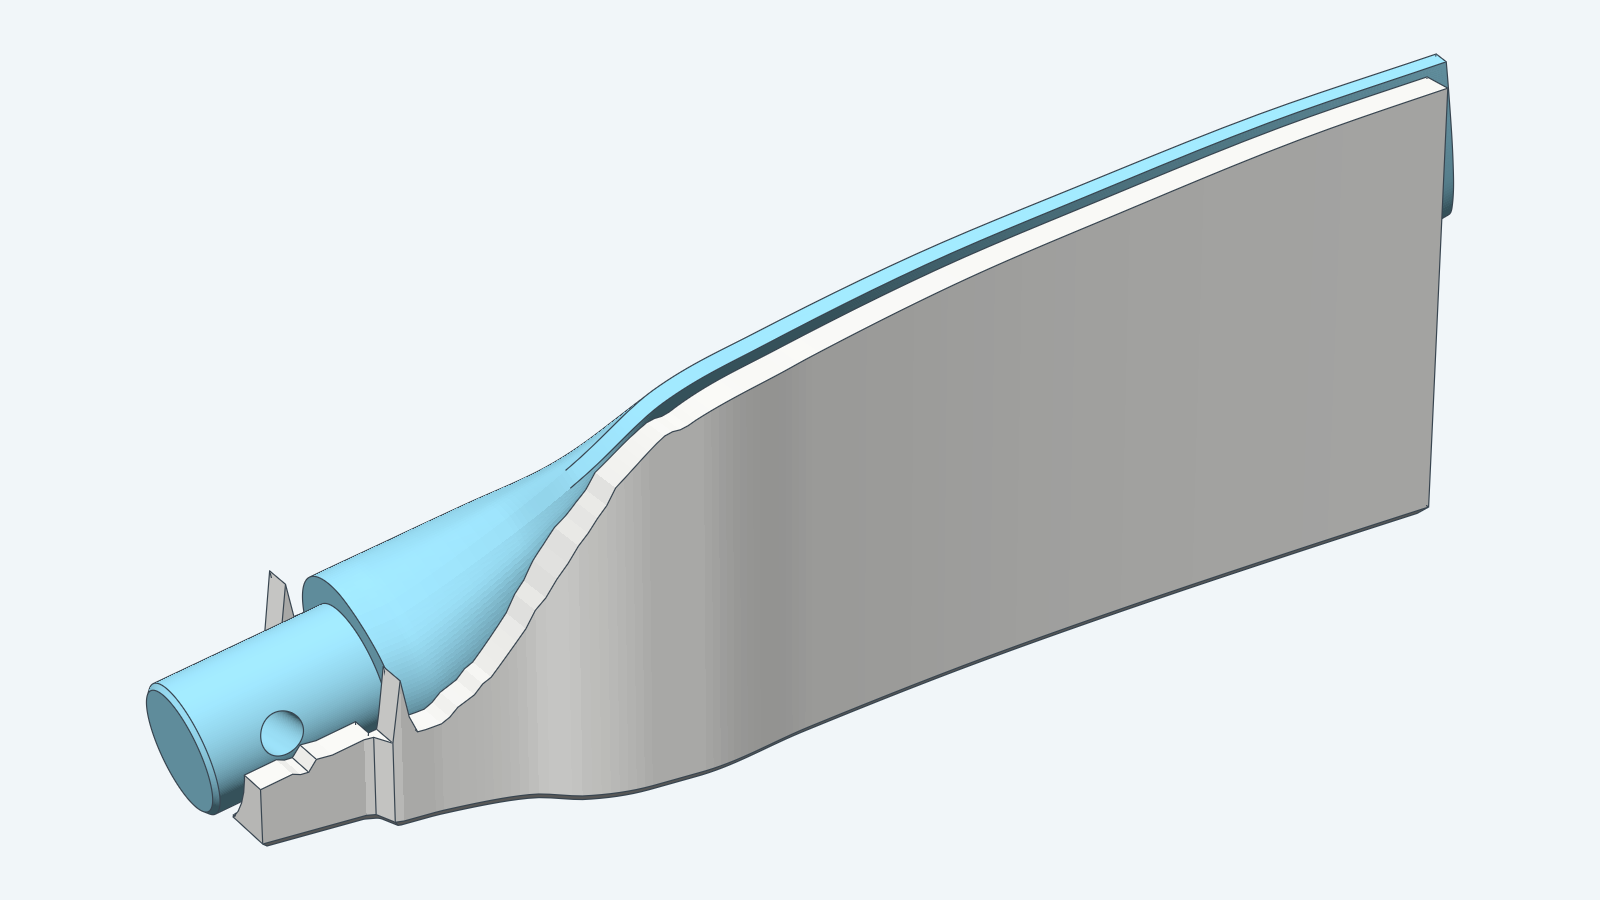
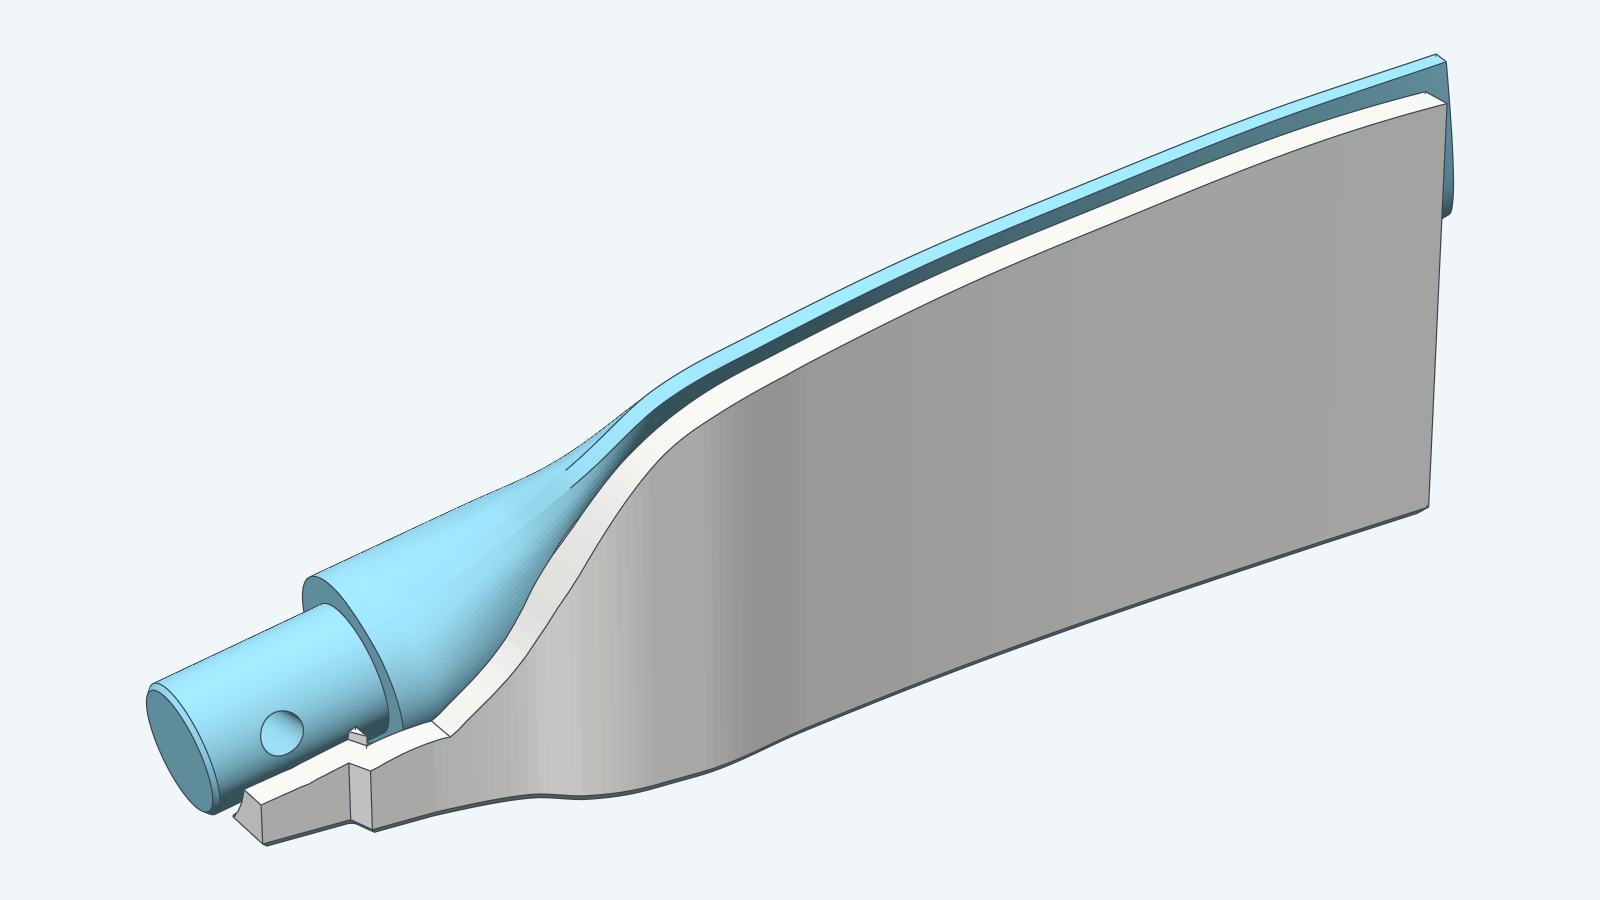
smooth turbine fan cradle walls and drop root fin

Changed region(s): [[0.1562, 0.0622, 0.9062, 0.9333], [0.1562, 0.6222, 0.1875, 0.7156]]

diff --git a/models/turbinefan/harness.go b/models/turbinefan/harness.go
@@ -5,6 +5,7 @@ import (
 	"errors"
 	"fmt"
 	"math"
+	"slices"
 
 	"github.com/lestrrat-3d/decad"
 	"github.com/lestrrat-3d/decad-gallery/internal/sketchcheck"
@@ -28,6 +29,13 @@ const (
 	CradleFitPoints = 33
 	// CradleYStep is the y spacing of the lower envelope's samples.
 	CradleYStep = 0.05
+	// CradleTopBand is how far inside a widest point the blade's outline is read for the wall's height: the wall top is
+	// set from the lowest outline point within this of the widest y, which a near-vertical face leaves steady.
+	CradleTopBand = 0.1
+	// CradleTopSmooth is the half-width, in mm along x, of the moving average that smooths each wall's top.
+	CradleTopSmooth = 1.0
+	// CradleTopPasses is the number of smoothing passes; each averages, then lowers every point back under its limit.
+	CradleTopPasses = 8
 	// CradleTipMargin is how far before the tip cap's lowest point the cradle ends.
 	CradleTipMargin = 1.0
 	// StudSlotFlats is the number of flats of the stud slot's half polygon.
@@ -46,6 +54,9 @@ type CradleSection struct {
 	Outline        [][2]float64 // CradleFitPoints points, y strictly increasing
 	LeftY, LeftZ   float64      // offset widest point, min y side
 	RightY, RightZ float64      // offset widest point, max y side
+	// LeftLimit and RightLimit are the lowest blade outline points within CradleTopBand of each widest y: the highest a
+	// wall may stand there.
+	LeftLimit, RightLimit float64
 }
 
 // BladeHarness is the cradle in the print frame. The cradle is one solid standing on the bed: a block minus the blade's
@@ -63,6 +74,9 @@ type BladeHarness struct {
 	XStart, XEnd float64
 	// StepZone is the x range where the shadow tool copies its first clean section, past the root step.
 	StepZone [2]float64
+	// WallTop is the top profile (x, z) of the left (min y) and the right wall over the block's sections: CradleTopDrop
+	// under the smoothed limit, the step zone's sections taking the first clean section's values.
+	WallTop [2][][2]float64
 }
 
 // BuildBladeHarness builds the cradle for blade, which must already be in the print pose PrintPoseFor(sz, pitch, hand,
@@ -219,7 +233,7 @@ func (b *bladeBuilder) harness(blade *decad.Body, pose r3.Frame, hand Hand, tilt
 
 	shadow := b.shadowTool(h, z0, zTop)
 	stud := b.studTool(xf, zTop, tilt)
-	block := b.block(h.Sections[1:len(h.Sections)-1], zTop)
+	block := b.block(h, wallSections(h), zTop)
 	// 9: the cradle.
 	if b.err != nil {
 		return nil
@@ -302,8 +316,25 @@ func (b *bladeBuilder) cradleSections(secs bladeSections, xs, xe, z0 float64) []
 		}
 		mono = append(mono, off[last])
 		pts := polarResample(mono, z0)
+		// Each wall's limit is the lowest point of the window's outlines within CradleTopBand of that side's widest y,
+		// read along every outline segment, so a near-vertical face gives a steady height on both sides alike.
+		leftLimit, rightLimit := math.Inf(1), math.Inf(1)
+		for _, l := range win {
+			for i := range l {
+				p0, p1 := l[i], l[(i+1)%len(l)]
+				for k := 0; k <= 10; k++ {
+					p := p0.Add(p1.Sub(p0).Scale(float64(k) / 10))
+					if p.Y <= left.Y+CradleTopBand {
+						leftLimit = math.Min(leftLimit, p.Z)
+					}
+					if p.Y >= right.Y-CradleTopBand {
+						rightLimit = math.Min(rightLimit, p.Z)
+					}
+				}
+			}
+		}
 		out = append(out, CradleSection{X: x, Outline: pts, LeftY: pts[0][0], LeftZ: pts[0][1],
-			RightY: pts[len(pts)-1][0], RightZ: pts[len(pts)-1][1]})
+			RightY: pts[len(pts)-1][0], RightZ: pts[len(pts)-1][1], LeftLimit: leftLimit, RightLimit: rightLimit})
 	}
 	return out
 }
@@ -466,13 +497,70 @@ func (b *bladeBuilder) studTool(xf r3.Transform, zTop, t float64) *decad.Body {
 	return b.extrudePolygon(f, vertices, sz.RootRadius+0.5-sz.BladeStudStart+1, "stud slot")
 }
 
+// wallSections returns the block's sections (all but the first and last) for the walls: those in the shadow tool's
+// copied range, the step zone and its lead-in, take the first clean section's widest points and limits, as the shadow
+// tool takes its outline. A raw section there mixes the stud's and the root's slices and would raise a fin on each
+// wall.
+func wallSections(h *BladeHarness) []CradleSection {
+	blk := slices.Clone(h.Sections[1 : len(h.Sections)-1])
+	var clean *CradleSection
+	for i := range h.Sections {
+		if h.Sections[i].X >= h.StepZone[1] {
+			clean = &h.Sections[i]
+			break
+		}
+	}
+	if clean == nil {
+		return blk
+	}
+	for i, c := range blk {
+		if c.X >= h.StepZone[0]-1.0-1e-9 && c.X < h.StepZone[1] {
+			blk[i] = *clean
+			blk[i].X = c.X
+		}
+	}
+	return blk
+}
+
+// wallTop returns a wall's top profile over blk (step 8): the limits limit(c), smoothed under themselves, less
+// CradleTopDrop. Each of CradleTopPasses passes averages the profile over CradleTopSmooth and then lowers every point
+// that rose above its own limit back to it, so the top stays CradleTopDrop under each section's limit and between
+// sections under the straight line between their limits.
+func wallTop(blk []CradleSection, limit func(CradleSection) float64) [][2]float64 {
+	lim := make([]float64, len(blk))
+	for i, c := range blk {
+		lim[i] = limit(c)
+	}
+	z := slices.Clone(lim)
+	for range CradleTopPasses {
+		next := make([]float64, len(z))
+		for i := range blk {
+			sum, n := 0.0, 0
+			for j := range blk {
+				if math.Abs(blk[i].X-blk[j].X) <= CradleTopSmooth+1e-9 {
+					sum, n = sum+z[j], n+1
+				}
+			}
+			next[i] = math.Min(sum/float64(n), lim[i])
+		}
+		z = next
+	}
+	out := make([][2]float64, len(blk))
+	for i, c := range blk {
+		out[i] = [2]float64{c.X, z[i] - CradleTopDrop}
+	}
+	return out
+}
+
 // block builds the cradle's block (step 8): the plan from CradleWall outside each widest line, intersected with a slab
 // 0.5 over the higher wall top, then cut by a cap on each side that removes what lies beyond that side's widest line and
 // above its wall top.
-func (b *bladeBuilder) block(blk []CradleSection, zTop float64) *decad.Body {
+func (b *bladeBuilder) block(h *BladeHarness, blk []CradleSection, zTop float64) *decad.Body {
 	if b.err != nil {
 		return nil
 	}
+	h.WallTop[0] = wallTop(blk, func(c CradleSection) float64 { return c.LeftLimit })
+	h.WallTop[1] = wallTop(blk, func(c CradleSection) float64 { return c.RightLimit })
 	// The plan's outer edge takes the widest point within CradlePlanWindow, so the bed face's outline has no notch
 	// narrower than its chamfer.
 	outer := func(x, side float64) float64 {
@@ -489,14 +577,13 @@ func (b *bladeBuilder) block(blk []CradleSection, zTop float64) *decad.Body {
 		}
 		return side * v
 	}
-	var plan, bandL, bandR, topMax, capL, capR [][2]float64
-	for _, c := range blk {
+	var plan, bandL, bandR, topMax [][2]float64
+	capL, capR := slices.Clone(h.WallTop[0]), slices.Clone(h.WallTop[1])
+	for i, c := range blk {
 		plan = append(plan, [2]float64{c.X, outer(c.X, -1) - CradleWall})
 		bandL = append(bandL, [2]float64{c.X, outer(c.X, -1) - CradleWall - 1})
 		bandR = append(bandR, [2]float64{c.X, c.RightY - 0.3})
-		topMax = append(topMax, [2]float64{c.X, math.Max(c.LeftZ, c.RightZ) - CradleTopDrop + 0.5})
-		capL = append(capL, [2]float64{c.X, c.LeftZ - CradleTopDrop})
-		capR = append(capR, [2]float64{c.X, c.RightZ - CradleTopDrop})
+		topMax = append(topMax, [2]float64{c.X, math.Max(capL[i][1], capR[i][1]) + 0.5})
 	}
 	for i := len(blk) - 1; i >= 0; i-- {
 		plan = append(plan, [2]float64{blk[i].X, outer(blk[i].X, 1) + CradleWall})

diff --git a/models/turbinefan/harness_fit_test.go b/models/turbinefan/harness_fit_test.go
@@ -1,0 +1,152 @@
+package turbinefan_test
+
+// CI: isolated-tests
+
+import (
+	"math"
+	"testing"
+
+	"github.com/lestrrat-3d/decad"
+	"github.com/lestrrat-3d/decad-gallery/internal/m2fastener"
+	"github.com/lestrrat-3d/decad-gallery/internal/meshgap"
+	"github.com/lestrrat-3d/decad-gallery/models/turbinefan"
+	"github.com/lestrrat-3d/r3"
+	"github.com/lestrrat-3d/units"
+	"github.com/stretchr/testify/require"
+)
+
+// TestBladeHarnessWallTop checks each wall's top: it stays CradleTopDrop under the widest line, it raises no fin in the
+// step zone above the root's clean wall, and it does not zigzag: no two neighbouring second differences of more than
+// 0.1 mm have opposite signs. The wall top follows the blade's own widest line, which turns sharply where the bolt hole
+// crosses the stud's sides and where the root flares into the airfoil, so points where that line's own second
+// difference exceeds 0.3 mm, the step zone's reach and the two sections at each end are not read for zigzags.
+func TestBladeHarnessWallTop(t *testing.T) {
+	eachCradle(t, func(t *testing.T, c cradleCase, b *builtCradle) {
+		h := b.harness
+		var clean turbinefan.CradleSection
+		for _, s := range h.Sections {
+			if s.X >= h.StepZone[1] {
+				clean = s
+				break
+			}
+		}
+		blk := h.Sections[1 : len(h.Sections)-1]
+		inZone := func(x float64) bool { return x >= h.StepZone[0]-1.0-1e-9 && x < h.StepZone[1] }
+		for w, top := range h.WallTop {
+			require.Equal(t, len(blk), len(top), "wall %d points", w)
+			pick := func(s turbinefan.CradleSection) (float64, float64) {
+				if w == 0 {
+					return s.LeftZ, s.LeftLimit
+				}
+				return s.RightZ, s.RightLimit
+			}
+			cleanTop := math.Inf(-1)
+			for i, q := range top {
+				if blk[i].X >= h.StepZone[1] && blk[i].X <= h.StepZone[1]+3 {
+					cleanTop = math.Max(cleanTop, q[1])
+				}
+			}
+			fin := math.Inf(-1)
+			limits := make([]float64, len(top))
+			for i, q := range top {
+				src := blk[i]
+				if inZone(src.X) {
+					src = clean
+				}
+				widest, limit := pick(src)
+				limits[i] = limit
+				require.LessOrEqual(t, q[1], widest-turbinefan.CradleTopDrop+1e-9, "wall %d at x %.2f above the widest line",
+					w, q[0])
+				if inZone(blk[i].X) || blk[i].X == h.StepZone[1] {
+					fin = math.Max(fin, q[1]-cleanTop)
+				}
+			}
+			second := func(v []float64, i int) float64 {
+				if i <= 0 || i >= len(v)-1 {
+					return 0
+				}
+				return v[i+1] - 2*v[i] + v[i-1]
+			}
+			heights := make([]float64, len(top))
+			for i, q := range top {
+				heights[i] = q[1]
+			}
+			zigzags, skipped, worst := 0, 0, 0.0
+			for i := 3; i+3 < len(top); i++ {
+				kink := false
+				for j := i - 1; j <= i+2; j++ {
+					kink = kink || math.Abs(second(limits, j)) > 0.3
+				}
+				if kink || inStepReach(h, top[i][0]) || inStepReach(h, top[i+1][0]) {
+					skipped++
+					continue
+				}
+				a, n := second(heights, i), second(heights, i+1)
+				worst = math.Max(worst, math.Abs(a))
+				if a*n < 0 && math.Abs(a) > 0.1 && math.Abs(n) > 0.1 {
+					zigzags++
+					t.Logf("%s wall %d zigzag at x %.2f: %.3f then %.3f", c.name, w, top[i][0], a, n)
+				}
+			}
+			t.Logf("%s wall %d: %d zigzags, worst second difference %.3f mm over %d points (%d skipped), step-zone height "+
+				"over the clean wall %.3f mm", c.name, w, zigzags, worst, len(top)-6-skipped, skipped, fin)
+			require.Zero(t, zigzags, "wall %d zigzags", w)
+			require.LessOrEqual(t, fin, 0.05, "wall %d fin in the step zone", w)
+		}
+	})
+}
+
+// TestBladeHarnessContour requires the cradle to follow the blade: below the widest line every sampled blade surface
+// point is within CradleGapXY + 0.3 of the cradle's mesh, or 2.2 in the step zone and its lead-in. The bolt hole's band,
+// the root step's face and the near-bed band (blade under 0.6 mm) are exempt.
+func TestBladeHarnessContour(t *testing.T) {
+	eachCradle(t, func(t *testing.T, c cradleCase, b *builtCradle) {
+		h := b.harness
+		hm, err := h.Body.Tessellate(t.Context(), units.Millimeters(0.2), decad.WithVerification(decad.VerifyAll))
+		require.NoError(t, err)
+		g, err := meshgap.New(hm.Vertices(), hm.Triangles(), hm.Bound().Base())
+		require.NoError(t, err)
+		pose, err := turbinefan.PrintPoseFor(b.sz, turbinefan.DefaultBladePitch, c.hand, b.tilt)
+		require.NoError(t, err)
+		radial := pose.U().Cross(pose.V())
+		worst, worstX, over, samples := 0.0, 0.0, 0, 0
+		for _, s := range h.Sections[2 : len(h.Sections)-2] {
+			loop := lowestLoop(section(t, b.blade, frame3(s.X)))
+			require.NotNil(t, loop, "blade section at x %.2f", s.X)
+			lo, hi := math.Inf(1), math.Inf(-1)
+			for _, p := range loop {
+				lo, hi = math.Min(lo, p.Y), math.Max(hi, p.Y)
+			}
+			limit := turbinefan.CradleGapXY + 0.3
+			step := s.X >= h.StepZone[0]-1.5 && s.X <= h.StepZone[1]
+			if step {
+				limit = 2.2
+			}
+			for y := lo + 0.3; y <= hi-0.3; y += 0.25 {
+				z, ok := lowestCrossing(loop, y)
+				if !ok || z < 0.6 {
+					continue
+				}
+				p := r3.Vec{X: s.X, Y: y, Z: z}
+				// The bolt hole's band, and the root step's face (blade-local radius RootRadius), which faces the stud
+				// end, tilted down only by the rest tilt, and needs no support.
+				r := p.Sub(pose.Origin()).Dot(radial)
+				if math.Abs(r-b.sz.BladeBoltAt) <= m2fastener.HoleRadius+0.5 || math.Abs(r-b.sz.RootRadius) <= 0.1 {
+					continue
+				}
+				d, err := g.PointDistance(p)
+				require.NoError(t, err)
+				samples++
+				if !step && d > worst {
+					worst, worstX = d, s.X
+				}
+				if d > limit {
+					over++
+				}
+			}
+		}
+		t.Logf("%s: %d samples, worst %.3f mm at x %.2f outside the step zone (mesh bound %.3f), %d over the limit", c.name,
+			samples, worst, worstX, hm.Bound().Base(), over)
+		require.Zero(t, over, "samples farther from the cradle than allowed")
+	})
+}

diff --git a/models/turbinefan/print_helpers_test.go b/models/turbinefan/print_helpers_test.go
@@ -171,3 +171,46 @@ func shadowSectionCount(h *turbinefan.BladeHarness) int {
 	}
 	return n
 }
+
+// lowestCrossing returns the lowest z where the vertical line y meets the closed polyline (y, z taken from the points'
+// Y and Z), and whether it meets it.
+func lowestCrossing(l []r3.Vec, y float64) (float64, bool) {
+	best, ok := math.Inf(1), false
+	for i := range l {
+		a, c := l[i], l[(i+1)%len(l)]
+		if (a.Y-y)*(c.Y-y) > 0 || a.Y == c.Y {
+			continue
+		}
+		if z := a.Z + (y-a.Y)/(c.Y-a.Y)*(c.Z-a.Z); z < best {
+			best, ok = z, true
+		}
+	}
+	return best, ok
+}
+
+// lowestLoop returns the loop holding the lowest point of the outline.
+func lowestLoop(o decad.SectionOutline) []r3.Vec {
+	var best []r3.Vec
+	low := math.Inf(1)
+	for _, l := range o.Loops {
+		for _, p := range l {
+			if p.Z < low {
+				best, low = l, p.Z
+			}
+		}
+	}
+	return best
+}
+
+// inStepReach reports whether x lies where the step zone's copied sections and the walls' smoothing reach: from the
+// shadow tool's lead-in, less the smoothing half-width and a section, to the zone's end plus the same.
+func inStepReach(h *turbinefan.BladeHarness, x float64) bool {
+	reach := turbinefan.CradleTopSmooth + turbinefan.CradleStep
+	return x >= h.StepZone[0]-1.0-reach && x <= h.StepZone[1]+reach
+}
+
+// frame3 is the plane x = const of the print frame, U along +Y and V along +Z.
+func frame3(x float64) r3.Frame {
+	f, _ := r3.NewFrame(r3.Vec{X: x}, r3.Vec{Y: 1}, r3.Vec{Z: 1})
+	return f
+}
